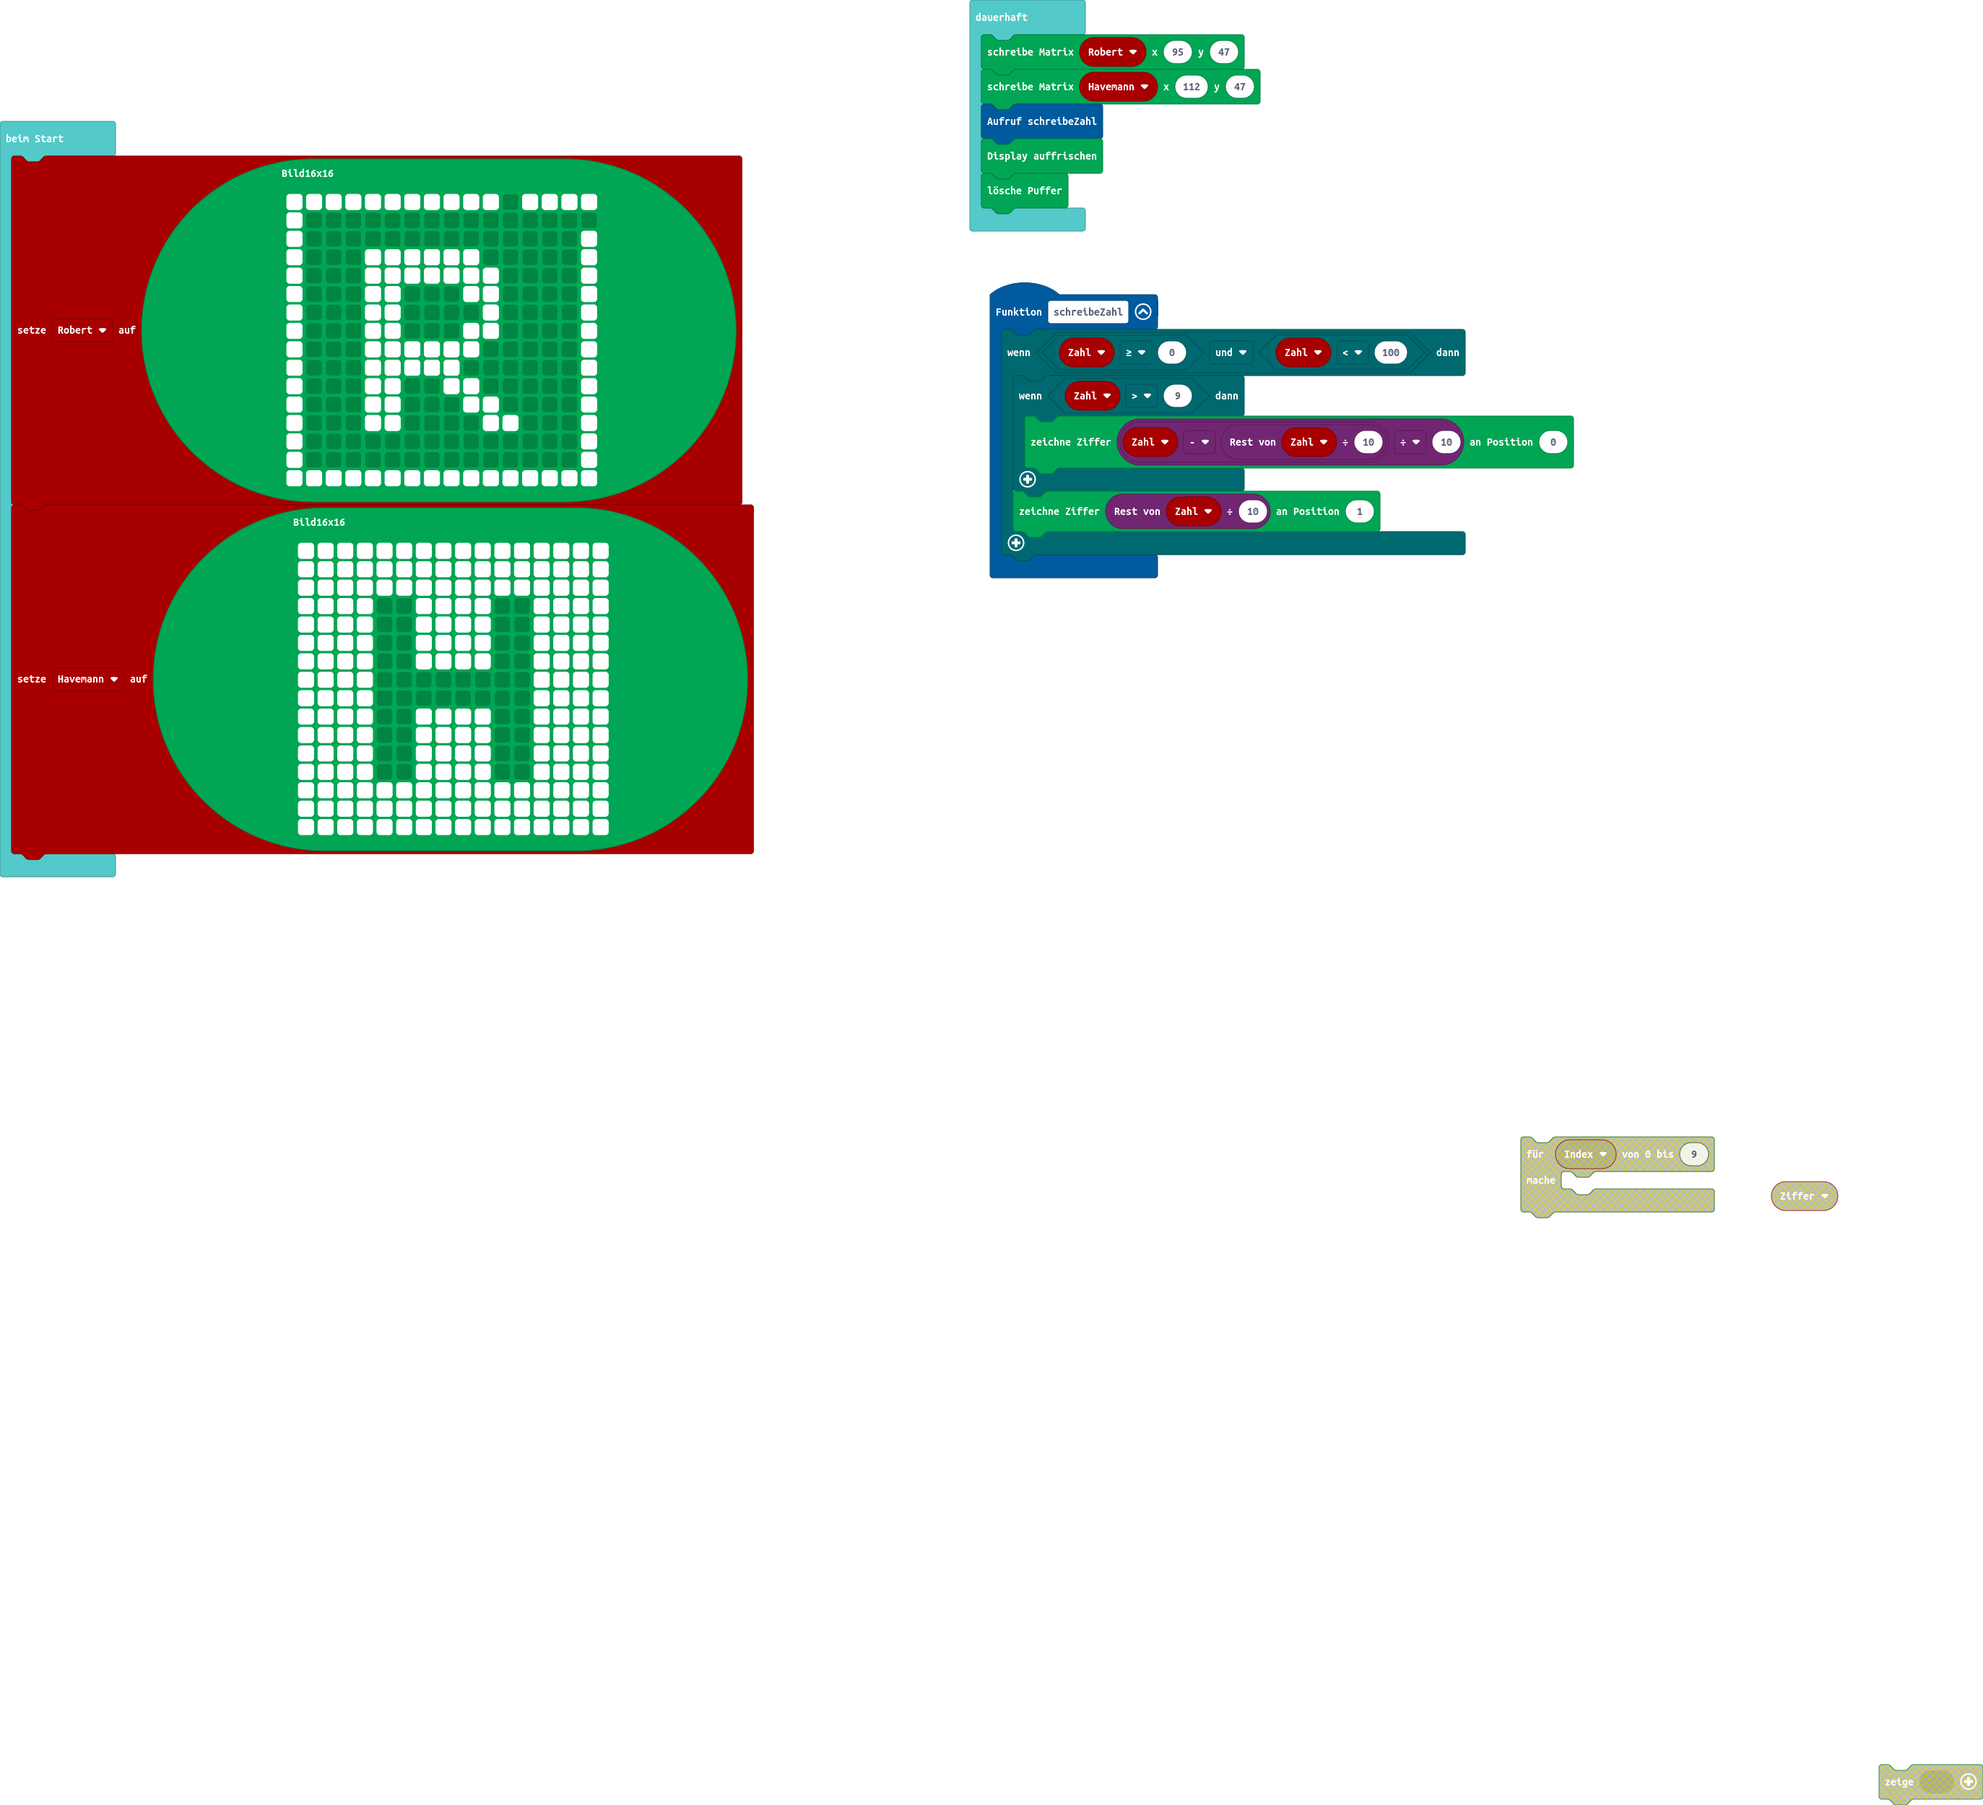
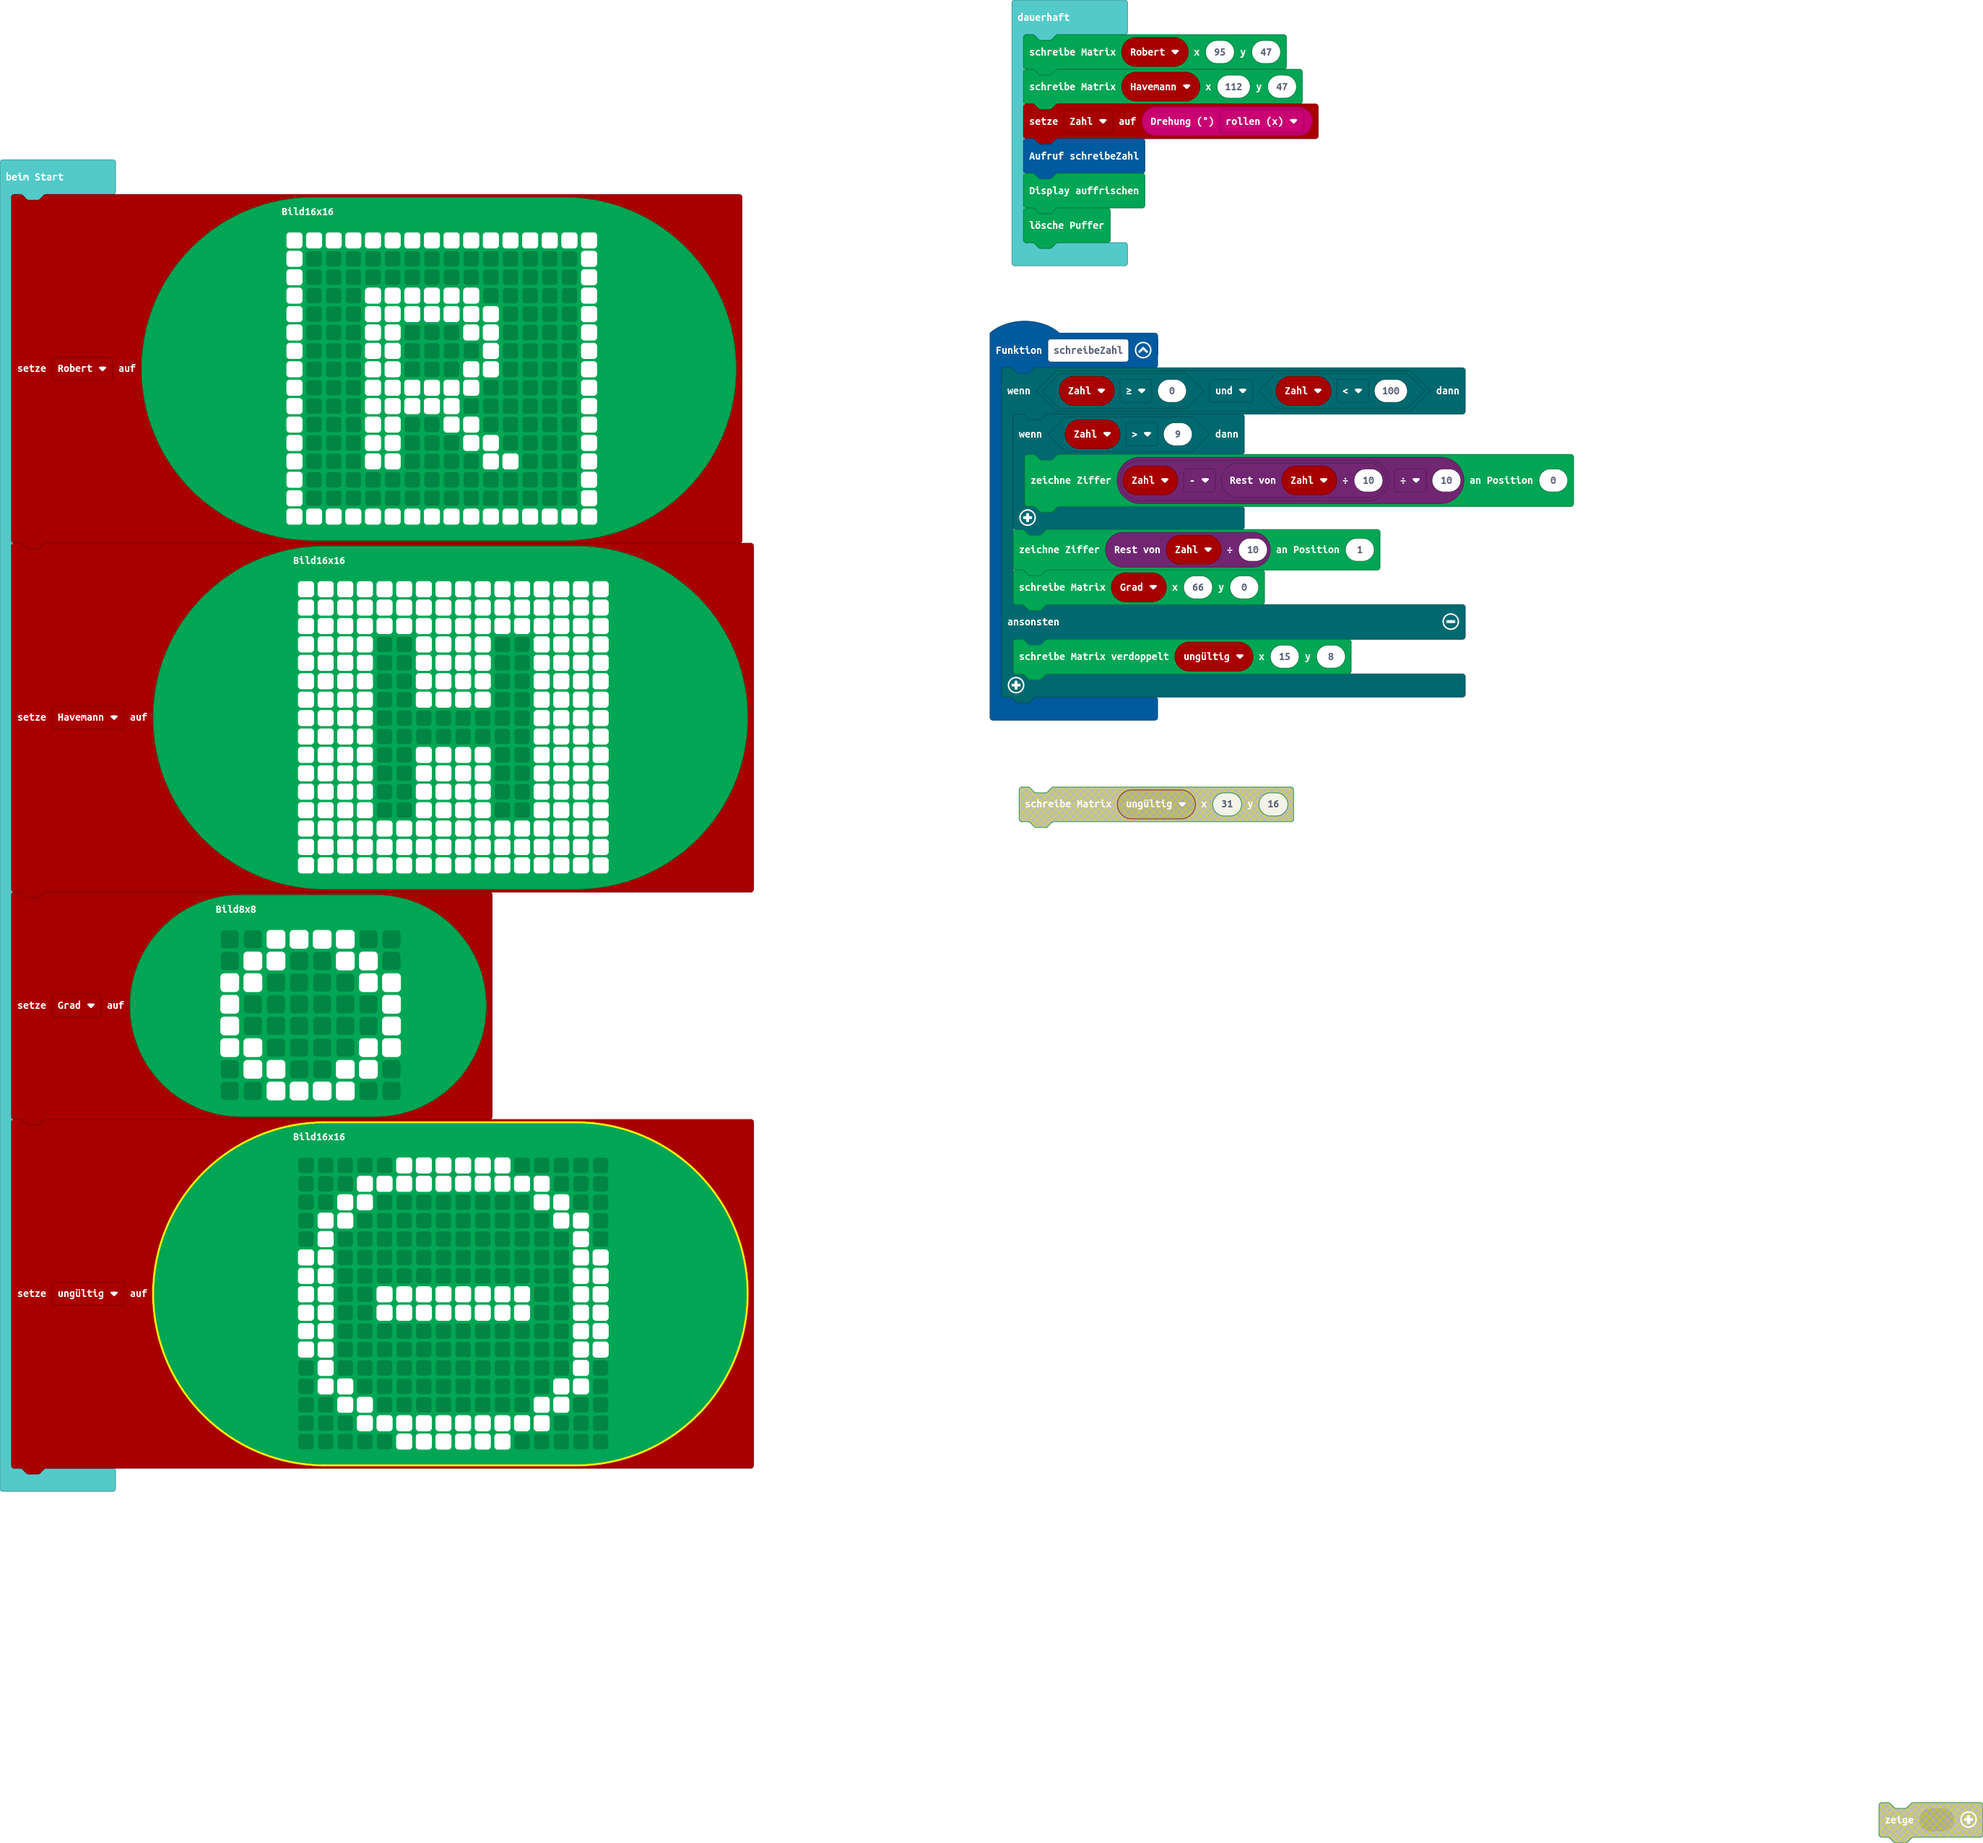
Winkel messen und das Zeichen wenn es über 100° ist oder unter 0°

diff --git a/main.ts b/main.ts
@@ -1,15 +1,20 @@
 function schreibeZahl () {
-    let Zahl = 0
     if (Zahl >= 0 && Zahl < 100) {
         if (Zahl > 9) {
             kitronik_VIEW128x64.drawnum((Zahl - Zahl % 10) / 10, 0)
         }
         kitronik_VIEW128x64.drawnum(Zahl % 10, 1)
+        kitronik_VIEW128x64.writeImageOLED(Grad, 66, 0)
+    } else {
+        kitronik_VIEW128x64.writeImageDouble(ungültig, 15, 8)
     }
 }
+let Zahl = 0
+let ungültig: Image = null
+let Grad: Image = null
 let Robert = kitronik_VIEW128x64.matrix16x16(`
-    # # # # # # # # # # # . # # # #
-    # . . . . . . . . . . . . . . .
+    # # # # # # # # # # # # # # # #
+    # . . . . . . . . . . . . . . #
     # . . . . . . . . . . . . . . #
     # . . . # # # # # # . . . . . #
     # . . . # # # # # # # . . . . #
@@ -43,9 +48,38 @@ let Havemann = kitronik_VIEW128x64.matrix16x16(`
     # # # # # # # # # # # # # # # #
     # # # # # # # # # # # # # # # #
     `)
+Grad = kitronik_VIEW128x64.matrix8x8(`
+    . . # # # # . .
+    . # # . . # # .
+    # # . . . . # #
+    # . . . . . . #
+    # . . . . . . #
+    # # . . . . # #
+    . # # . . # # .
+    . . # # # # . .
+    `)
+ungültig = kitronik_VIEW128x64.matrix16x16(`
+    . . . . . # # # # # # . . . . .
+    . . . # # # # # # # # # # . . .
+    . . # # . . . . . . . . # # . .
+    . # # . . . . . . . . . . # # .
+    . # . . . . . . . . . . . . # .
+    # # . . . . . . . . . . . . # #
+    # # . . . . . . . . . . . . # #
+    # # . . # # # # # # # # . . # #
+    # # . . # # # # # # # # . . # #
+    # # . . . . . . . . . . . . # #
+    # # . . . . . . . . . . . . # #
+    . # . . . . . . . . . . . . # .
+    . # # . . . . . . . . . . # # .
+    . . # # . . . . . . . . # # . .
+    . . . # # # # # # # # # # . . .
+    . . . . . # # # # # # . . . . .
+    `)
 basic.forever(function () {
     kitronik_VIEW128x64.writeImageOLED(Robert, 95, 47)
     kitronik_VIEW128x64.writeImageOLED(Havemann, 112, 47)
+    Zahl = input.rotation(Rotation.Roll)
     schreibeZahl()
     kitronik_VIEW128x64.refresh()
     kitronik_VIEW128x64.clearbuffer()
